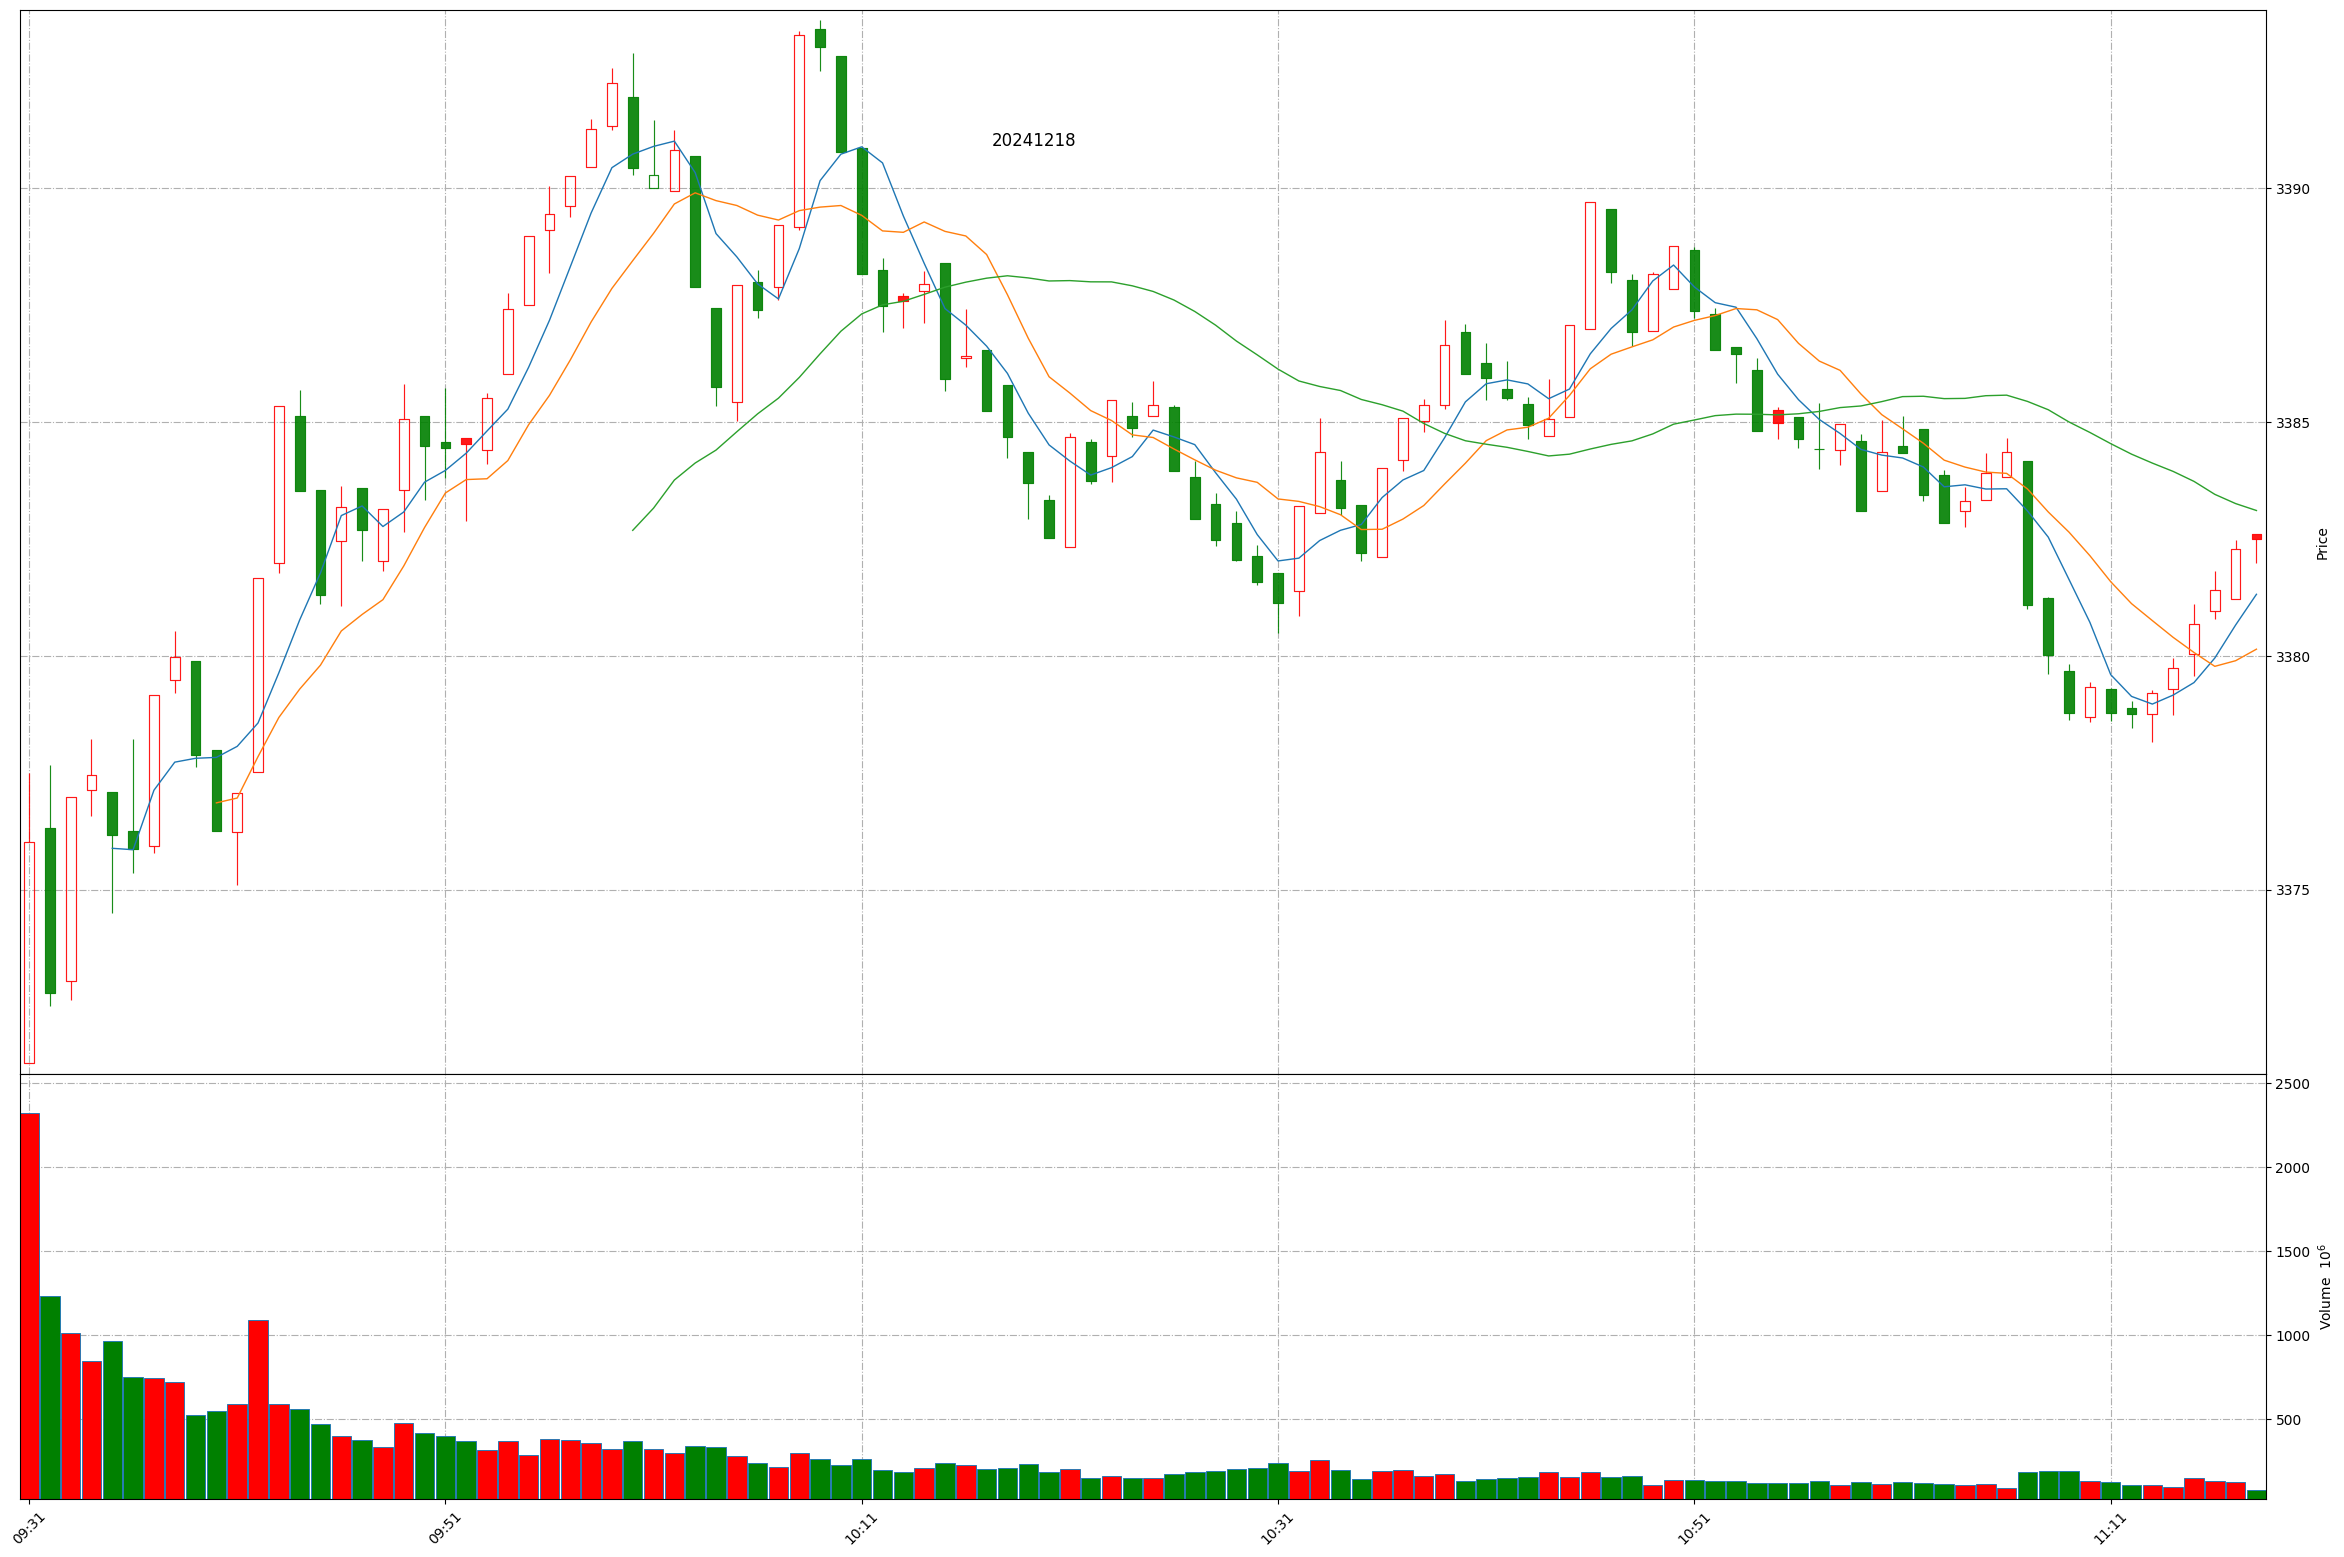
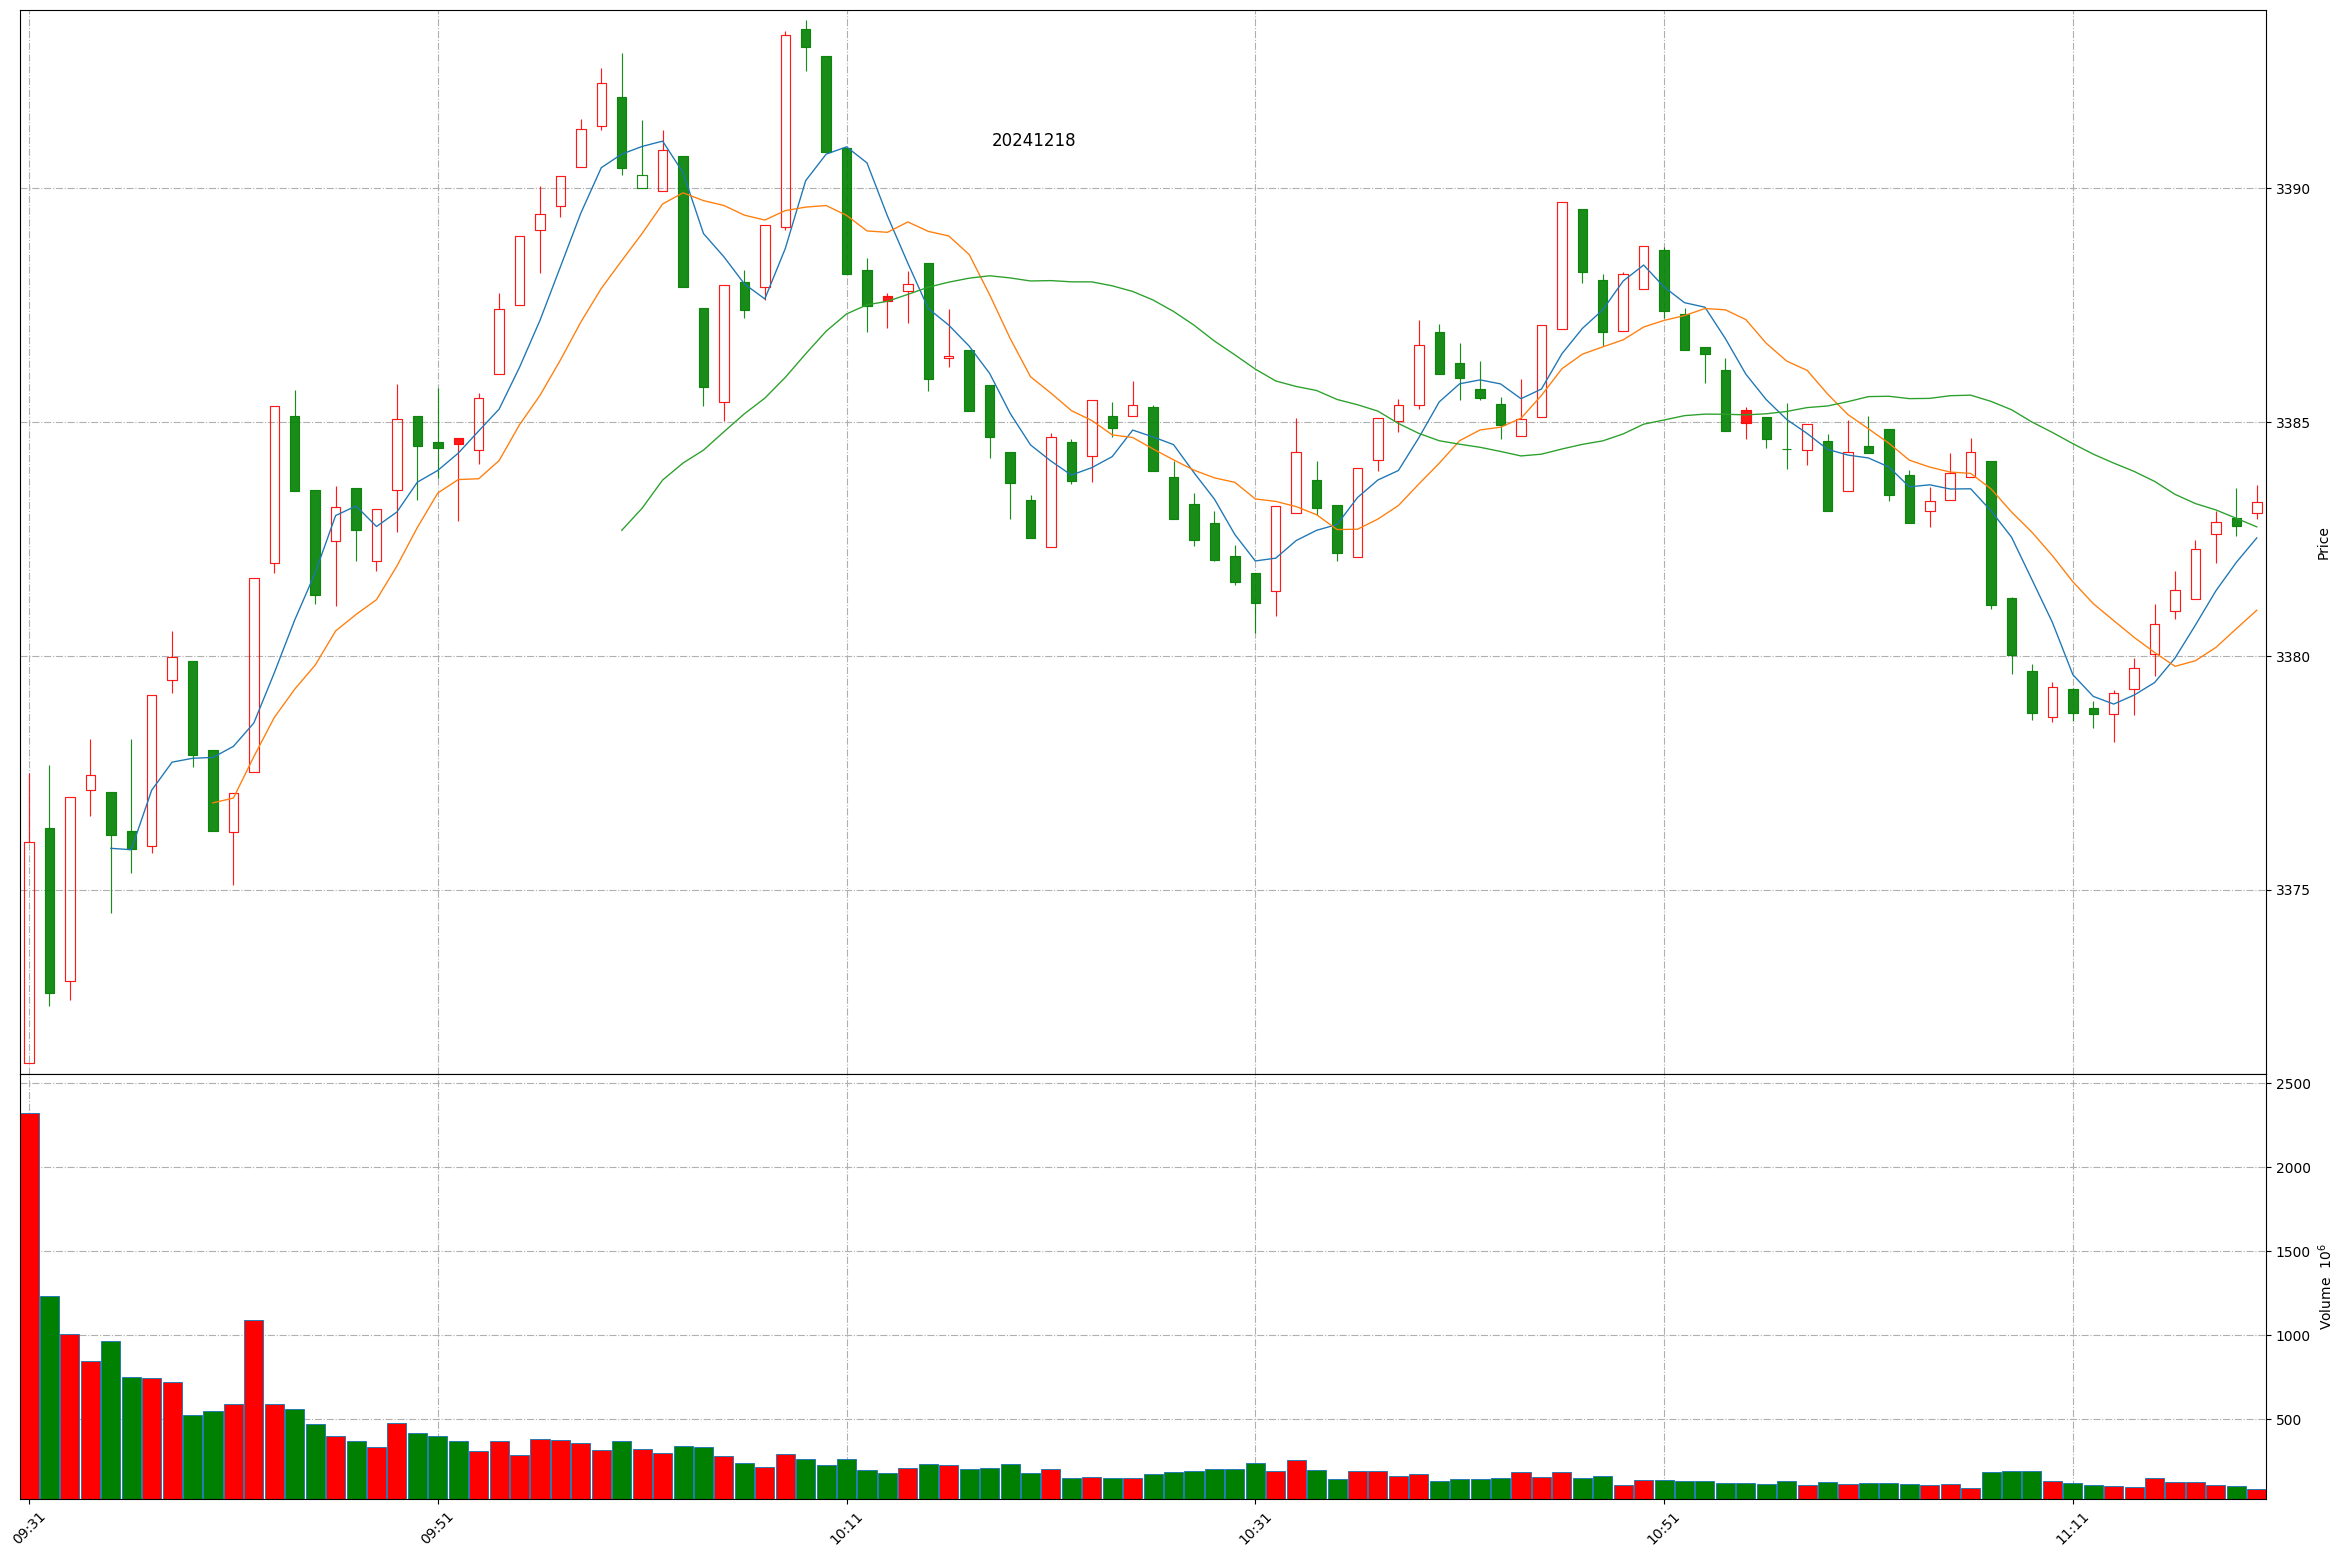
Github action update at 2024-12-18 11:19:58.

diff --git a/README.md b/README.md
@@ -1,11 +1,11 @@
 
 # Daily-A-share-market-quotes 每日 A 股指数（5min 更新）- 20241218
 
-### 上证指数 20241218 11:17
+### 上证指数 20241218 11:19
 ![](./fig/2024/12/20241218-sh000001.png)
 
-### 深证成指 20241218 11:17
+### 深证成指 20241218 11:19
 ![](./fig/2024/12/20241218-sz399001.png)
 
-### 北证50 20241218 11:17
+### 北证50 20241218 11:19
 ![](./fig/2024/12/20241218-bj899050.png)
